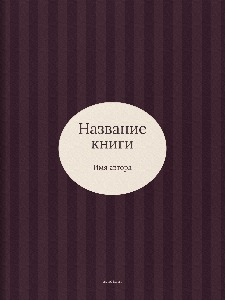
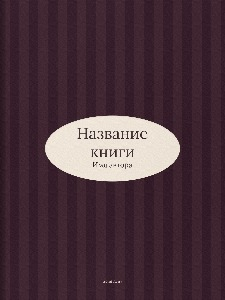
Make v2 cover oval wider and flatter; center visible title and author lettering

diff --git a/v2/cover-renderer.js b/v2/cover-renderer.js
@@ -1,7 +1,7 @@
 /* Editable 3:4 covers. Real lettering with the bundled Lora font. */
 (function(root){
   'use strict';
-  const W=1500,H=2000,CX=750,CY=990,RX=360,RY=310;
+  const W=1500,H=2000,CX=750,CY=990,RX=450,RY=220;
   const themes=[
     {id:'dark-large',label:'Тёмная',detail:'Для больших книг',bg:'#351e29',stripe:'#402631',spine:'#281720',panel:'#eee5d8',panelEdge:'#9a847c',ink:'#39272d',footer:'#e7dacd'},
     {id:'medium',label:'Дымчато-голубая',detail:'Для средних книг',bg:'#98a8b0',stripe:'#acbac1',spine:'#85969f',panel:'#f1eade',panelEdge:'#969d9d',ink:'#2e3c43',footer:'#35454d'},
@@ -26,31 +26,48 @@
   }
   function layout(c,title,author){
     for(let size=112;size>=28;size-=2){
-      c.font=`500 ${size}px LoraCover`;
-      const textWidth=2*(RX-70);
+      c.font=`500 ${size}px LoraCover`;c.textAlign='left';c.textBaseline='alphabetic';
+      const textWidth=2*(RX-95);
       if(size>28&&title.split(/\s+/).some(word=>c.measureText(word).width>textWidth))continue;
       const titles=wrap(c,title,textWidth),lh=size*1.18;
       const as=Math.min(48,Math.max(30,size*.46));c.font=`500 ${as}px LoraCover`;
       if(size>28&&author.split(/\s+/).some(word=>c.measureText(word).width>textWidth))continue;
-      const authors=wrap(c,author,textWidth),ah=as*1.3,gap=43;
-      const total=titles.length*lh+gap+authors.length*ah;
-      if(total>420)continue;
-      let y=CY-total/2;const lines=[];
-      titles.forEach(text=>{lines.push({text,size,weight:500,y});y+=lh;});y+=gap;
-      authors.forEach(text=>{lines.push({text,size:as,weight:500,y});y+=ah;});
+      const authors=wrap(c,author,textWidth),ah=as*1.3,gap=Math.max(24,size*.32),lines=[];
+      function line(text,fontSize,baseline){
+        c.font=`500 ${fontSize}px LoraCover`;
+        const m=c.measureText(text);
+        return {text,size:fontSize,weight:500,baseline,
+          x:CX+(m.actualBoundingBoxLeft-m.actualBoundingBoxRight)/2,
+          ascent:m.actualBoundingBoxAscent,descent:m.actualBoundingBoxDescent,
+          width:m.actualBoundingBoxLeft+m.actualBoundingBoxRight};
+      }
+      titles.forEach((text,i)=>lines.push(line(text,size,i*lh)));
+      const titleBottom=Math.max(...lines.map(l=>l.baseline+l.descent));
+      authors.forEach((text,i)=>{
+        const next=line(text,as,0);
+        next.baseline=i?lines[lines.length-1].baseline+ah:titleBottom+gap+next.ascent;
+        lines.push(next);
+      });
+      const top=Math.min(...lines.map(l=>l.baseline-l.ascent));
+      const bottom=Math.max(...lines.map(l=>l.baseline+l.descent));
+      if(bottom-top>2*(RY-55))continue;
+      // Center the visible glyph bounds, rather than font line boxes and unused leading.
+      const shift=CY-(top+bottom)/2;
+      lines.forEach(l=>{l.baseline+=shift;l.y=l.baseline-l.ascent;l.height=l.ascent+l.descent;});
       const fits=lines.every(line=>{
-        c.font=`${line.weight} ${line.size}px LoraCover`;
-        const dy=Math.max(Math.abs(line.y-CY),Math.abs(line.y+line.size-CY));
+        const dy=Math.max(Math.abs(line.y-CY),Math.abs(line.y+line.height-CY));
         const available=2*(RX-60)*Math.sqrt(Math.max(0,1-(dy/(RY-45))**2));
-        return c.measureText(line.text).width<=available;
+        return line.width<=available;
       });
       if(fits)return lines;
     }
     throw new Error('Слишком много текста для небольшого овального поля. Сократите название или имя автора.');
   }
   function text(c,line){
-    c.font=`${line.weight} ${line.size}px LoraCover`;c.textAlign='center';c.textBaseline='alphabetic';
-    const m=c.measureText(line.text);c.fillText(line.text,CX,line.y+m.actualBoundingBoxAscent);
+    c.font=`${line.weight} ${line.size}px LoraCover`;c.textAlign='left';c.textBaseline='alphabetic';
+    const m=c.measureText(line.text);
+    const x=line.x??CX+(m.actualBoundingBoxLeft-m.actualBoundingBoxRight)/2;
+    c.fillText(line.text,x,line.baseline??line.y+m.actualBoundingBoxAscent);
   }
   function emboss(c,mask,ink,paper){
     const image=c.getImageData(0,0,W,H),out=image.data,m=mask.getContext('2d').getImageData(0,0,W,H).data;
@@ -104,5 +121,5 @@
     if(options.grayscale){const im=c.getImageData(0,0,W,H);for(let i=0;i<im.data.length;i+=4){const v=Math.round((.299*im.data[i]+.587*im.data[i+1]+.114*im.data[i+2])/17)*17;im.data[i]=im.data[i+1]=im.data[i+2]=v;}c.putImageData(im,0,0);}
     return canvas;
   }
-  root.CoverTemplates={render,layout,themes,width:W,height:H};
+  root.CoverTemplates={render,layout,themes,width:W,height:H,panel:{x:CX,y:CY,width:RX*2,height:RY*2}};
 })(typeof window!=='undefined'?window:globalThis);

diff --git a/v2/template-menu.js b/v2/template-menu.js
@@ -40,7 +40,7 @@
   themes.forEach(t=>{
     const button=document.createElement('button'),img=document.createElement('img'),label=document.createElement('span');
     button.type='button';button.className='template-choice';button.dataset.theme=t.id;button.setAttribute('aria-pressed','false');button.setAttribute('aria-label',t.label+' — '+t.detail);
-    img.src='templates/'+t.id+'.jpg';img.alt='';img.width=150;img.height=200;label.textContent=t.label;button.append(img,label);
+    img.src='templates/'+t.id+'.jpg?v=oval-2';img.alt='';img.width=150;img.height=200;label.textContent=t.label;button.append(img,label);
     button.onclick=()=>{selected=t.id;selectButtons();queue();};dialog.querySelector('.template-choices').append(button);
   });
   function selectButtons(){dialog.querySelectorAll('.template-choice').forEach(b=>b.setAttribute('aria-pressed',String(b.dataset.theme===selected)));}

diff --git a/v2/index.html b/v2/index.html
@@ -19,8 +19,8 @@
   <link rel="stylesheet" href="templates.css">
   <script defer src="vendor/jszip.min.js"></script>
   <script defer src="epub.js"></script>
-  <script defer src="cover-renderer.js"></script>
-  <script defer src="template-menu.js"></script>
+  <script defer src="cover-renderer.js?v=oval-2"></script>
+  <script defer src="template-menu.js?v=oval-2"></script>
   <script defer src="app.js"></script>
 </head>
 <body>
